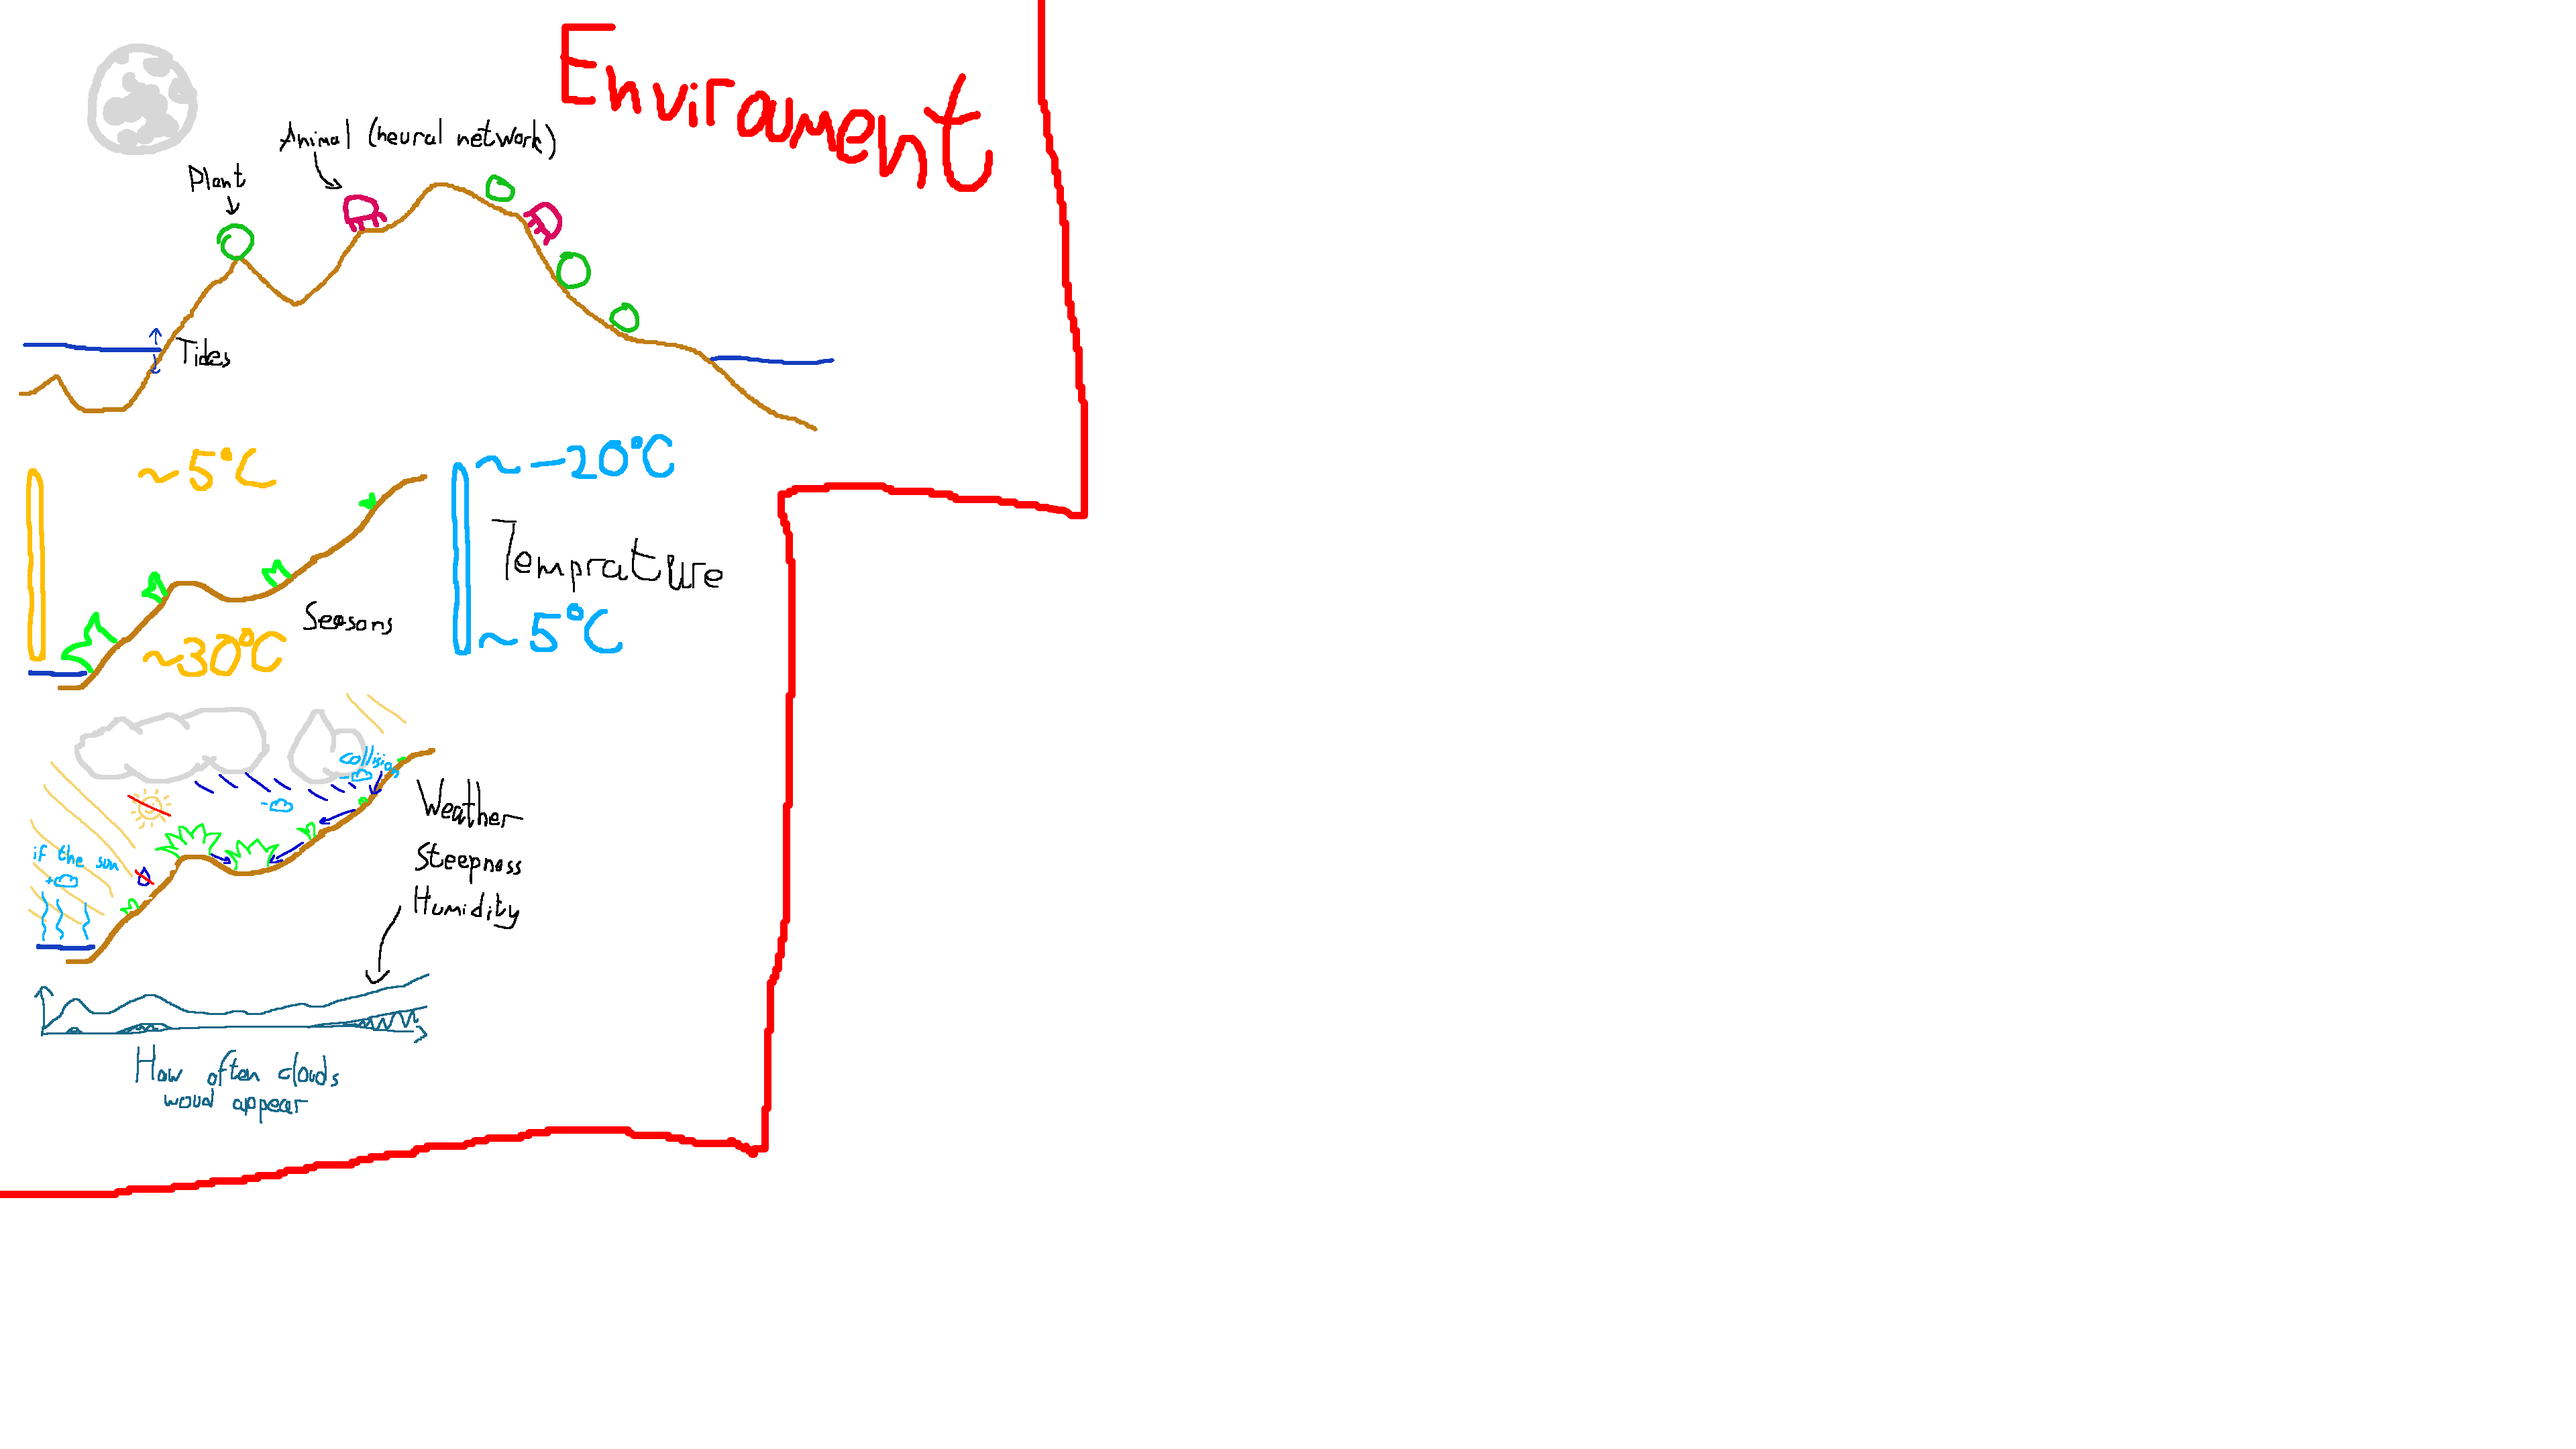
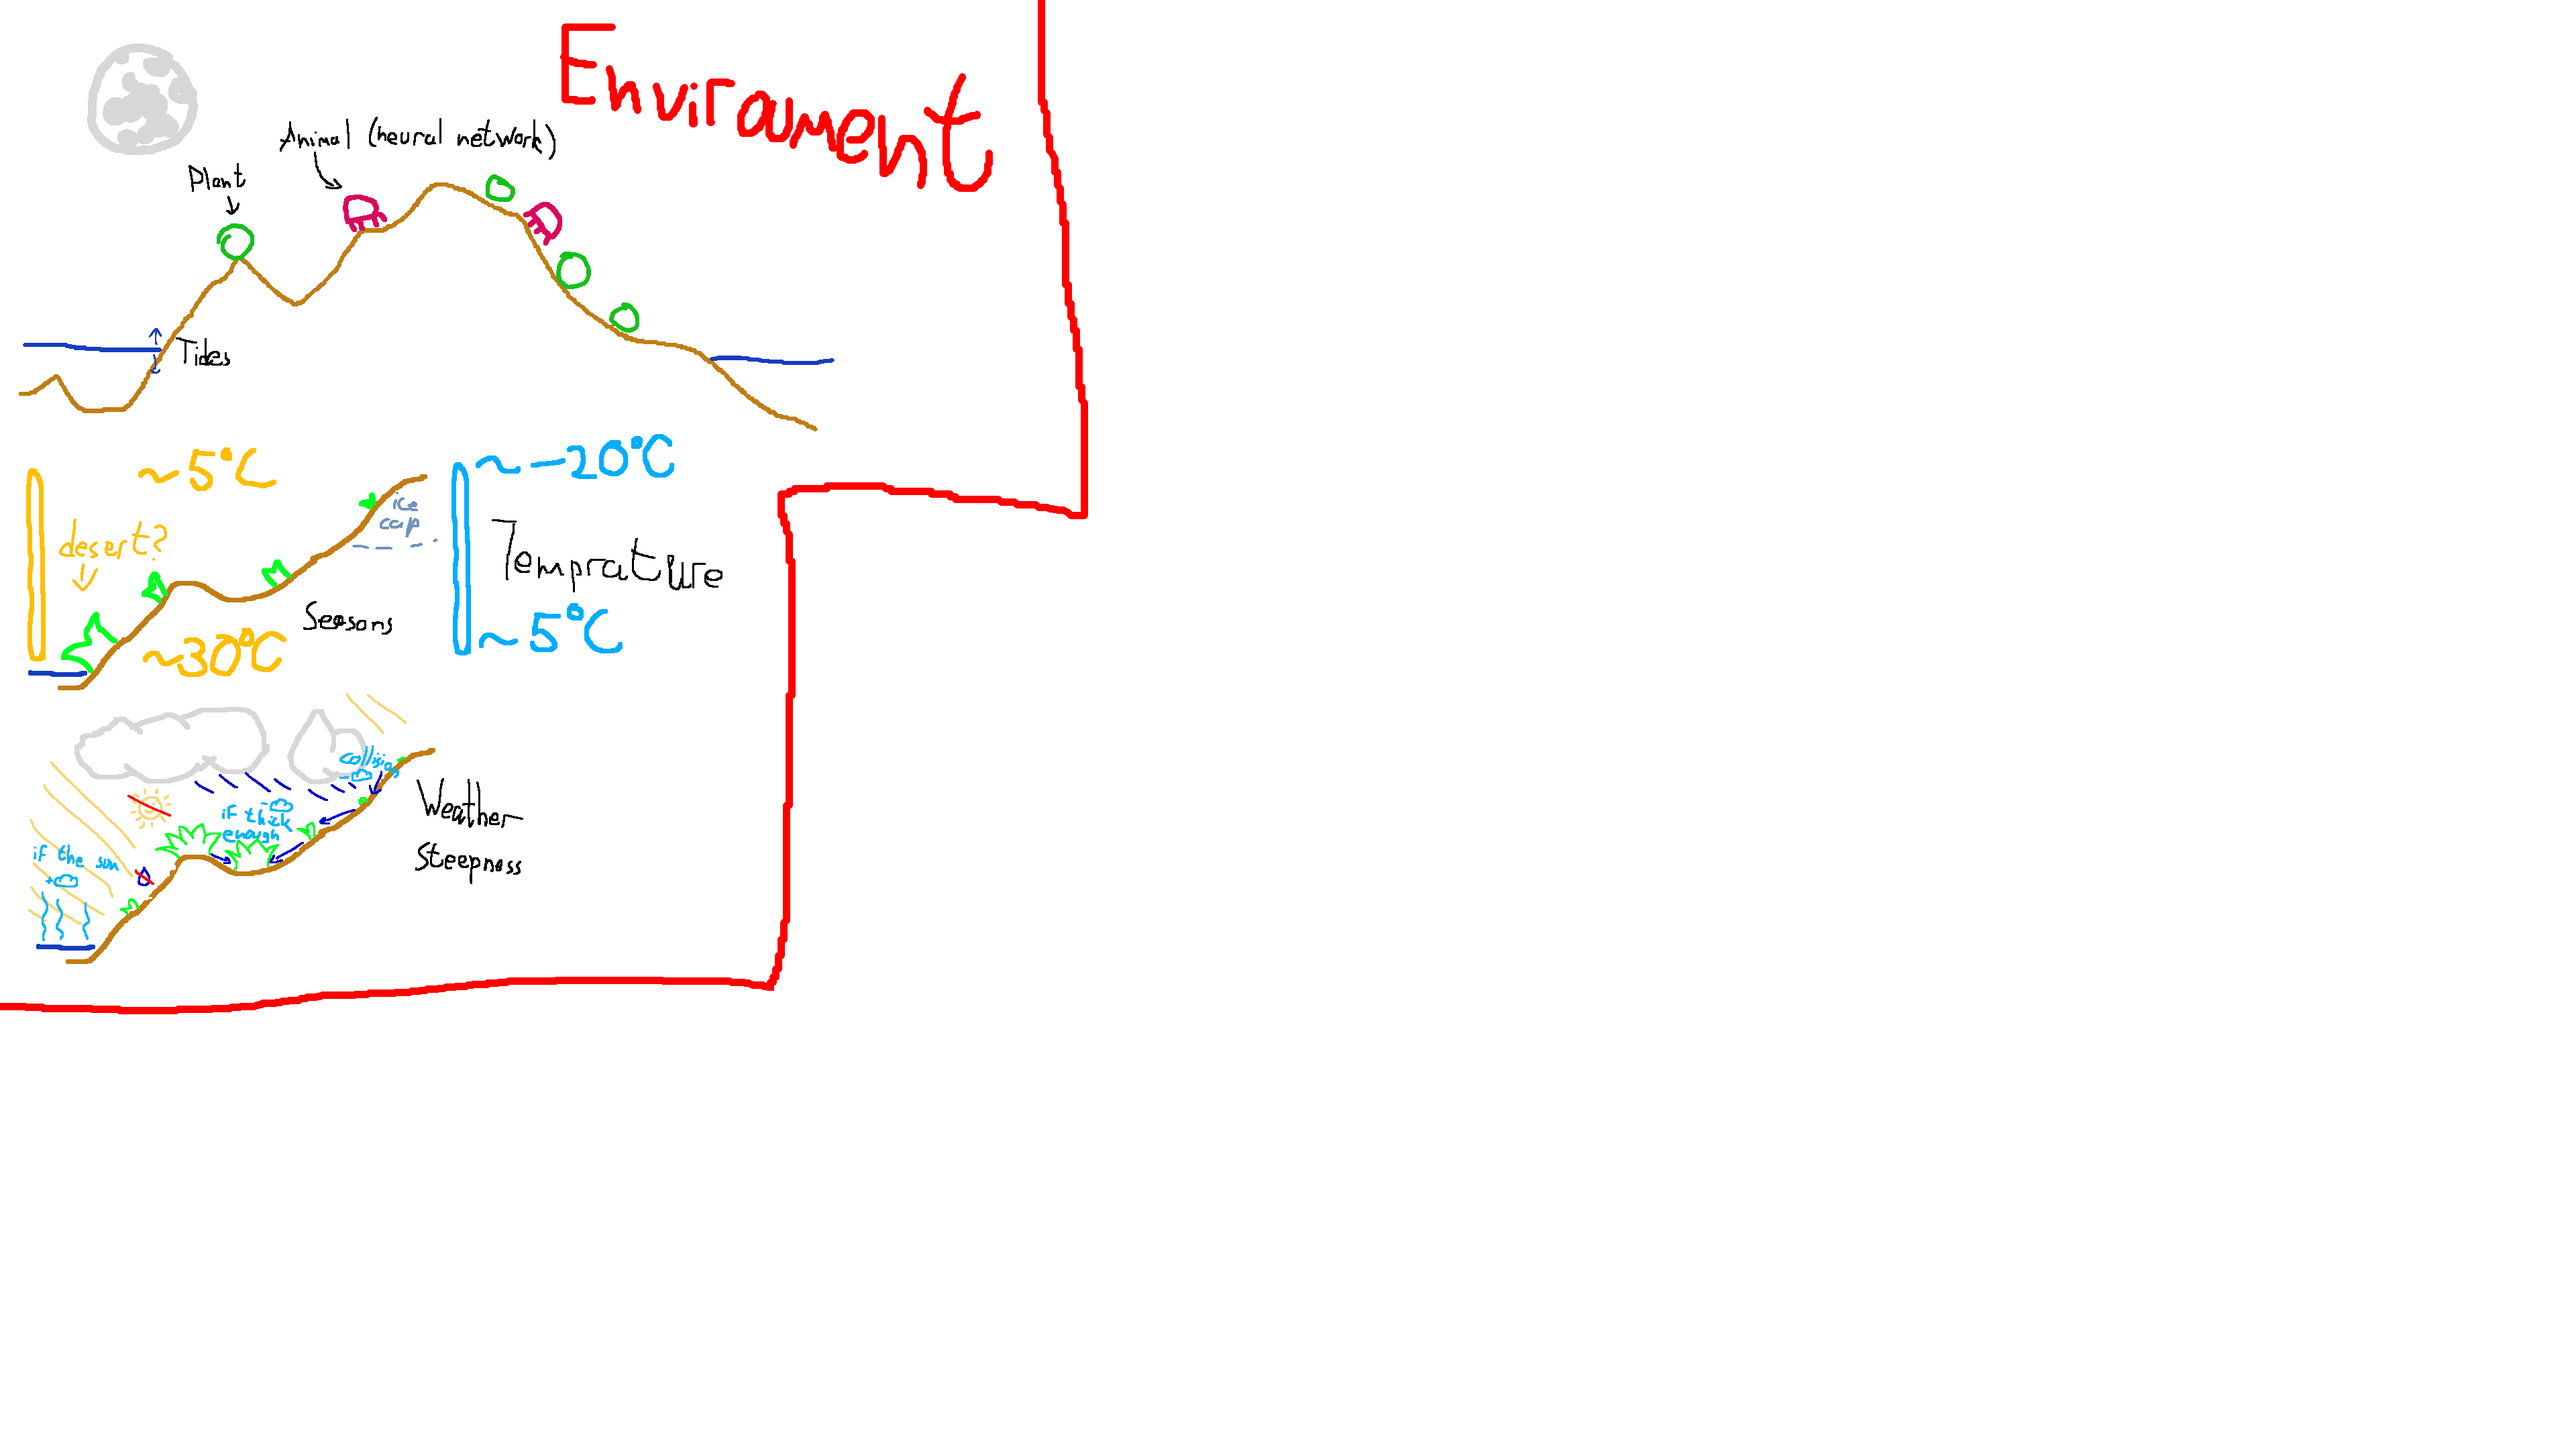
made an Enviroument class and made a tide simulation, ice caps and steepness

diff --git a/Evolv.io.wtk/include/Enviroument.h b/Evolv.io.wtk/include/Enviroument.h
@@ -1,0 +1,99 @@
+#pragma once
+#include <vector>
+#include <bitset>
+
+#include "raylib.h"
+
+#include "ComponentPropertyKit.h"
+
+class Enviroument {
+public:
+    struct Tile { // because of budget cuts
+        uint8_t height; // in procents
+        uint8_t plantFillness; // in procents
+        uint8_t steepnessLevel; // in procents
+    };
+
+    Enviroument(size_t sizeX, size_t sizeY);
+    void setSeaLevel(uint16_t seaLevel) noexcept;
+    void setTides(uint16_t tideAmplitude, uint16_t tideFrequency) noexcept;
+    void setSeasonFrequency(float seasonFrequency) noexcept;
+    void setTempratureRange(int16_t tempMinInLowest, uint16_t heightTempDifference, int16_t tempMaxInLowest) noexcept;
+    void setTempratureForPlantsRange(int16_t tempPlantMin, int16_t tempPlantMax) noexcept;
+    void setGrowRatio(float ratio) noexcept;
+    void setBoosters(uint16_t sunBoostr, uint16_t rainBooster) noexcept;
+    void setCloudHeight(uint16_t cloudHeight) noexcept;
+    void step(float wideness);
+
+    void generateImage();
+    float getOscillator();
+    _NODISCARD Image& getImage();
+
+    ~Enviroument() {
+        UnloadImage(mImage);
+    }
+private:
+    void handleUnfinishedCheckList() noexcept;
+
+    template<typename T>
+    T scale(float x, T min, T max);
+    template<typename T>
+    T findZeroFromScale(T min, T max);
+    template<typename T>
+    T fit(T x, T min, T max);
+    template<typename T>
+    inline T findZeroFromFit(T min, T max) { return min; }
+    template<typename T>
+    T slice(T x, T min, T max) const noexcept;
+
+    void calculateIceCapLevel();
+    int16_t getCurrentTemprature(uint8_t height);
+    void calculateSteepnessLevel();
+
+    size_t mWidth;
+    size_t mHeight;
+    std::vector<Tile> mTileMap;
+    Image mImage;
+
+    std::bitset<8> mCheckList;
+
+    uint16_t mSeaLevel; // in procents
+    uint16_t mTideFrequency;
+    uint16_t mTideAmplitude;
+    float mTideRatio = 0.5;
+
+    float mSeasonFrequency;
+    float mOscillator = 0;
+    float mSeasonRatio = 0.5;
+    uint16_t mHeightDifference; // in temprature from the lowest point
+    int16_t mTempMaxInLowest;
+    int16_t mTempMinInLowest;
+    int16_t mIceCapLevel;
+    
+    float mGrowRatio; // how fast a plant would grow if all conditions are satisfied (sun or rain, low height, perfect temperature)
+    int16_t mMinTempForPlantsLiving;
+    int16_t mMaxTempForPlantsLiving;
+    uint16_t mSunBooster; // in procent
+    uint16_t mRainBooster; // in procent
+    uint16_t mCloudHeight; // in procent
+};
+
+template<typename T>
+inline T Enviroument::scale(float x, T min, T max) {
+    return (T)(x * (max - min)) + min;
+}
+
+template<typename T>
+inline T Enviroument::findZeroFromScale(T min, T max) {
+    return -min / (max - min);
+}
+
+template<typename T>
+inline T Enviroument::fit(T x, T min, T max) {
+    return (x - min) / (max - min);
+}
+
+template<typename T>
+inline T Enviroument::slice(T x, T min, T max) const noexcept {
+    return std::min(std::max(x, min), max);
+}

diff --git a/Evolv.io.wtk/src/Simulation.cpp b/Evolv.io.wtk/src/Simulation.cpp
@@ -2,14 +2,43 @@
 
 #include "raylib.h"
 
-Simulation::Simulation() {
+Simulation::Simulation()
+    : mEnviroument(640, 480) {
+
+    mEnviroument.setSeaLevel(64);
+    mEnviroument.setTides(5, 30);
+    mEnviroument.setTempratureRange(15,20,30);
+    mEnviroument.setSeasonFrequency(0.1);
+
+    mRenderer.push<graphic_sys_lib::Sprite>(LoadTextureFromImage(mEnviroument.getImage()));
+
+    mSpeed = 0.01;
 }
 
 void Simulation::loop() {
+    if (IsKeyDown(KEY_UP)) {
+        mSpeed += 0.001;
+    }
+    if (IsKeyDown(KEY_DOWN)) {
+        mSpeed -= 0.001;
+    }
+
+    mEnviroument.step(mSpeed);
+
+    if (std::fmod(mEnviroument.getOscillator(), 0.5) < mSpeed) {
+        mEnviroument.generateImage();
+        UpdateTexture(mRenderer.element<graphic_sys_lib::Sprite>(0).getTexuture(), mEnviroument.getImage().data);
+        
+    }
+
     BeginDrawing();
     ClearBackground(BLACK);
 
-    DrawText("This text means, what it's works!", 100, 100, 20, WHITE);
+    mRenderer.render();
 
+    DrawRectangle(0, 0, 175, 20, BLACK);
+    DrawText(std::to_string(mSpeed).c_str(), 85, 0, 20, GRAY);
+    
+    DrawFPS(0, 0);
     EndDrawing();
 }

diff --git a/Evolv.io.wtk/include/Simulation.h b/Evolv.io.wtk/include/Simulation.h
@@ -1,5 +1,8 @@
 #pragma once
 #include "ComponentPropertyKit.h"
+#include "GraphicSystem.h"
+
+#include "Enviroument.h"
 
 class Simulation {
 public:
@@ -7,6 +10,8 @@ public:
 
     void loop();
 private:
-    component_property_kit_lib::Properties mProperties;
+    Enviroument mEnviroument;
+    graphic_sys_lib::Renderer mRenderer;
+    float mSpeed;
 };
 
